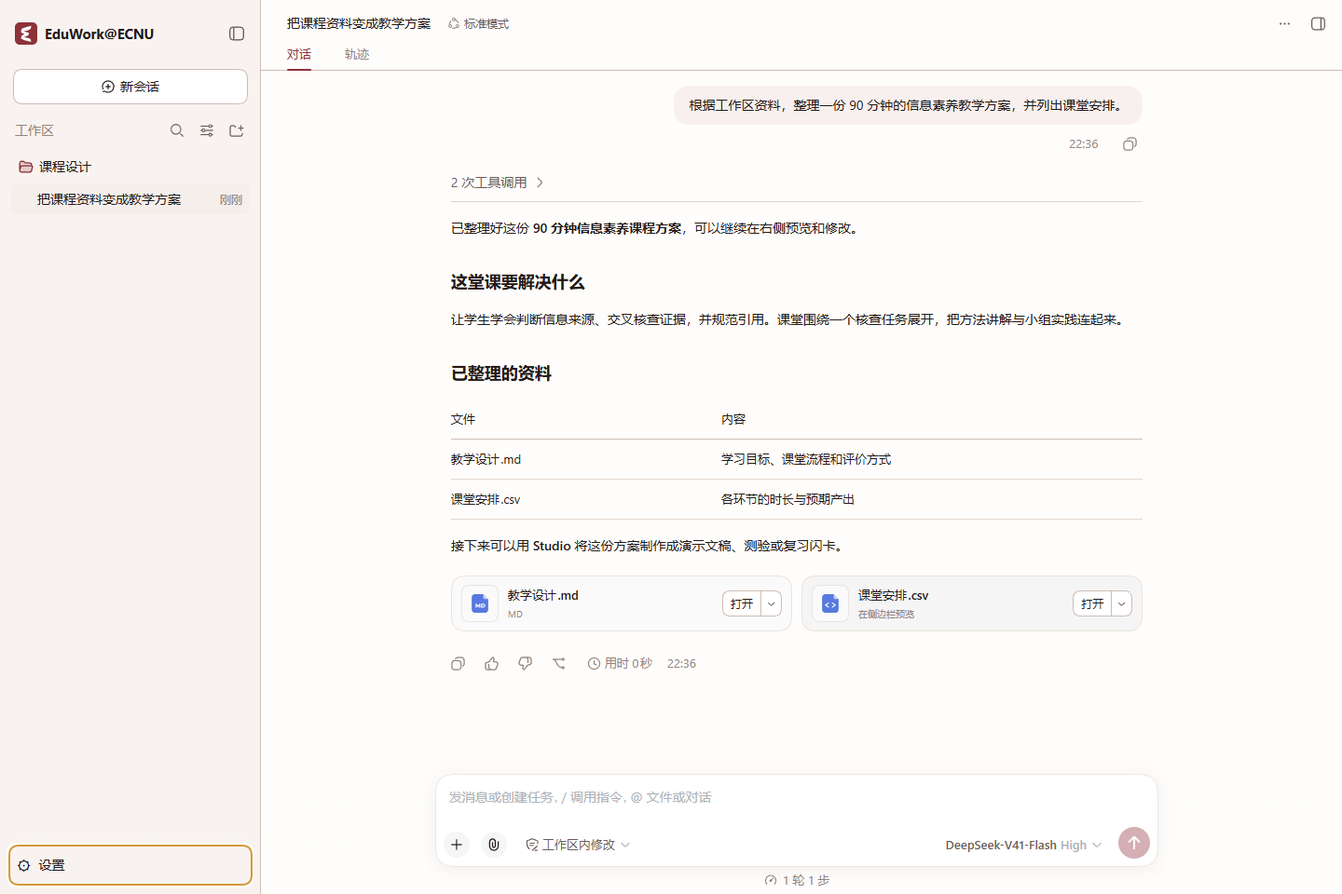
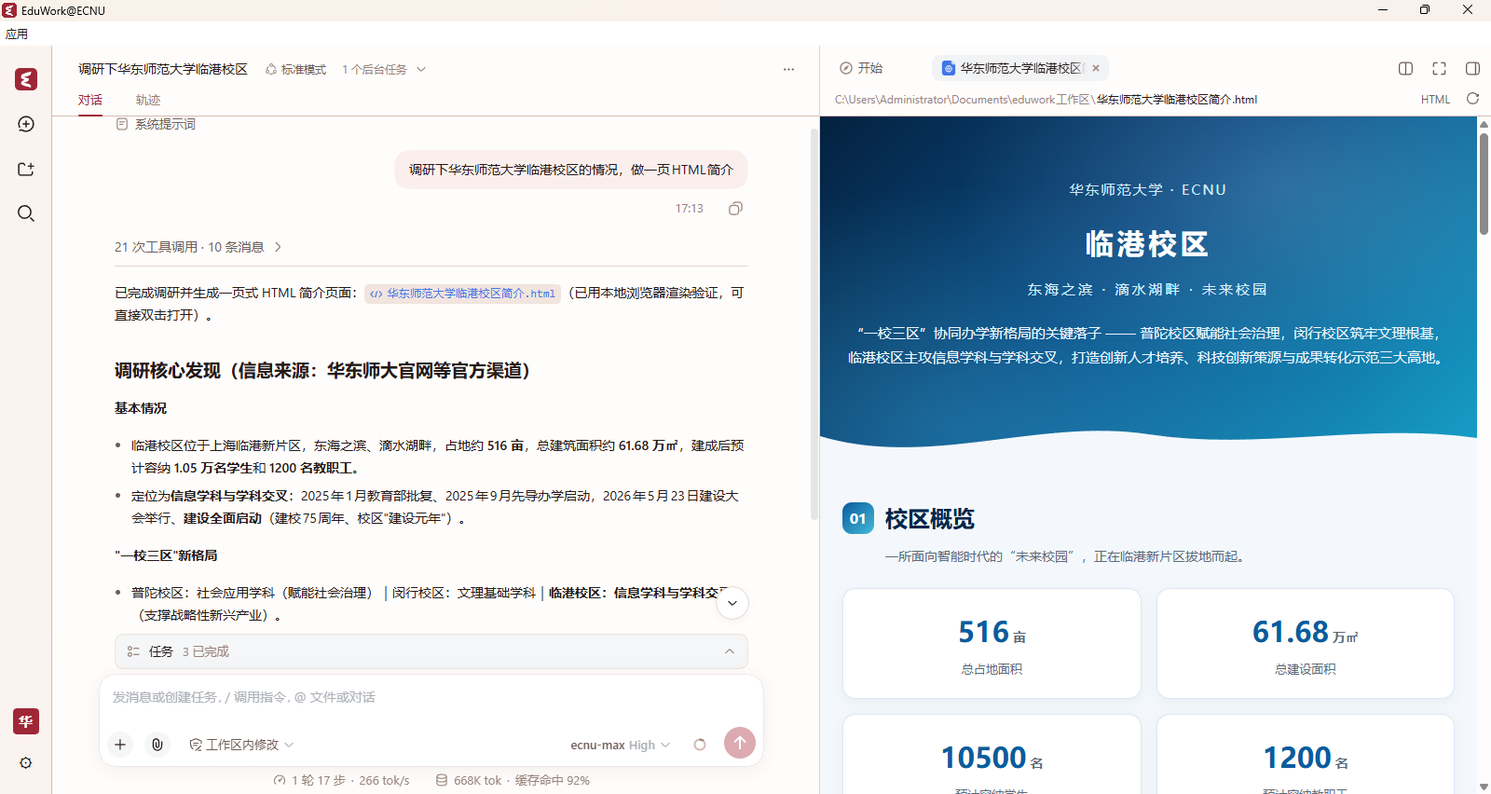
docs: 更新 ECNU README 与学校版界面截图 (#16)
* docs: refresh ECNU overview and shared feature screenshots

* docs: use matching ECNU screenshots throughout the README

* docs: align ECNU service guides with current token and configuration flows

diff --git a/README_EN.md b/README_EN.md
@@ -8,7 +8,7 @@
 
 <div align="center">
 
-[![DSH 0.1.5-rc.2](https://img.shields.io/badge/DSH-0.1.5--rc.2-5367E8?style=flat-square)](https://github.com/deepseek-ai/deepseek-harness/releases/tag/dsh-v0.1.5-rc.2) [![License: MIT](https://img.shields.io/badge/license-MIT-3DA66B?style=flat-square)](LICENSE) [![Desktop: Electron](https://img.shields.io/badge/desktop-Electron-47848F?style=flat-square&logo=electron&logoColor=white)](https://github.com/ecnu/EduWork/blob/main/dsh-electron/README_EN.md) [![Platform: Windows x64](https://img.shields.io/badge/platform-Windows%20x64-0078D4?style=flat-square)](docs/USER_GUIDE.md)
+[![DSH 0.1.5-rc.2](https://img.shields.io/badge/DSH-0.1.5--rc.2-5367E8?style=flat-square)](https://github.com/deepseek-ai/deepseek-harness/releases/tag/dsh-v0.1.5-rc.2) [![License: MIT](https://img.shields.io/badge/license-MIT-3DA66B?style=flat-square)](LICENSE) [![Desktop: Electron](https://img.shields.io/badge/desktop-Electron-47848F?style=flat-square&logo=electron&logoColor=white)](https://github.com/ecnu/EduWork/blob/main/dsh-electron/README_EN.md) [![Platform: Windows x64 / macOS arm64](https://img.shields.io/badge/platform-Windows%20x64%20%7C%20macOS%20arm64-0078D4?style=flat-square)](docs/USER_GUIDE.md)
 
 [简体中文](README.md) | **English**
 
@@ -20,9 +20,9 @@ EduWork@ECNU brings [EduWork](https://github.com/ecnu/EduWork) to East China Nor
 
 It includes the full EduWork workspace, Studio, and skill center. University services connect through configuration and plugins, and you can still use personal API keys and other models.
 
-![EduWork@ECNU workspace: turn local course materials into a teaching plan, shown in the red theme](docs/images/workspace.png)
+![EduWork@ECNU workspace: research campus information with a university model and preview a generated HTML page on the right](docs/images/workspace.png)
 
-<p align="center"><sub>The shared EduWork workspace, connected to university services. Blue and red themes are both available.</sub></p>
+<p align="center"><sub>From research to a finished page: complete the task with a university model and preview the result beside the conversation.</sub></p>
 
 > University users obtain the client through the school distribution channel; it downloads school configuration on first launch. This repository presents the institutional extension; its templates do not include complete school deployment settings.
 
@@ -34,7 +34,7 @@ It includes the full EduWork workspace, Studio, and skill center. University ser
 <td width="50%" valign="top"><h3>See your available resources</h3><p>Check university quota, resource pools, and reset times from your account menu.</p></td>
 </tr>
 <tr>
-<td width="50%" valign="top"><h3>Connect university models</h3><p>Sign in to configure models and use university image generation and speech services.</p></td>
+<td width="50%" valign="top"><h3>Connect university models</h3><p>Sign in to discover available models without copying API keys, and use university image and speech services according to your account permissions.</p></td>
 <td width="50%" valign="top"><h3>Finish the work</h3><p>Keep the full EduWork workspace, Studio, skills, memory, and mail assistant.</p></td>
 </tr>
 </table>
@@ -59,9 +59,22 @@ Quota queries use university-specific APIs, and values come from the server. Quo
 
 ### University models and media services
 
-After university sign-in and the required authorization, the client obtains model credentials and configures university models. University image generation and speech synthesis services can also produce images, narration, and explanatory content in conversations or Studio. Personal models remain available alongside them.
+After university sign-in and authorization, the client automatically discovers available models so you can start a conversation without creating or copying a separate model API key. Depending on account permissions, university image generation and speech synthesis services can also produce images, narration, and explanatory content in conversations or Studio. Personal models remain available alongside them.
 
 These integrations reuse the public edition's OIDC, model, and media adapters, with services and configuration supplied by the university.
+
+<details>
+<summary>See university service connection and model selection</summary>
+
+![Model settings show a connected ECNU AI service and its model catalog](docs/images/school-services.png)
+
+Check the university service's connection status and model catalog under Settings → Models. Personal model providers can also be added here.
+
+![A new EduWork@ECNU conversation with the university model ecnu-max selected](docs/images/school-model.png)
+
+Back in the conversation, select a university model at the bottom right of the composer to begin. The example uses `ecnu-max`; available models depend on university services and account permissions.
+
+</details>
 
 ### Other university extensions
 
@@ -72,7 +85,9 @@ These integrations reuse the public edition's OIDC, model, and media adapters, w
 
 ### Work with your materials
 
-Choose a local folder as your workspace. Ask EduWork to read and organize sources, analyze data, edit files, or run scripts. Request outputs in a conversation or open Studio:
+Choose a local folder as your workspace. Ask EduWork to read and organize sources, analyze data, edit files, or run scripts. Request outputs in a conversation or open Studio to choose an output type.
+
+For example, research Lingang Campus, create a one-page HTML introduction, and generate a quiz from the page in your workspace. Research materials, the page, and exercises stay together for further additions and revisions.
 
 - **Reports, spreadsheets, and presentations**: create DOCX, XLSX, and PPTX files.
 - **Mind maps, quizzes, and flashcards**: organize knowledge and prepare practice and revision materials.
@@ -80,11 +95,24 @@ Choose a local folder as your workspace. Ask EduWork to read and organize source
 
 Conversations and Studio share generation, previews, and downloads. The skill center, local memory, mail assistant, browser, local transcription, system speech synthesis, and blue/red themes are also included.
 
-![EduWork@ECNU Studio: create teaching materials for a lesson plan using the same creation tools as the public edition](docs/images/studio.png)
+![EduWork@ECNU Studio: generate a quiz from workspace materials and view output types and an in-progress task in the sidebar](docs/images/studio.png)
+
+<p align="center"><sub>Start generation from Studio and follow its progress in the sidebar. Completed items appear under Recent results.</sub></p>
+
+<details>
+<summary>See how a generated quiz works</summary>
+
+![EduWork@ECNU quiz: check answers, explanations, and source evidence, then ask AI a follow-up question](docs/images/quiz.png)
+
+Answer a generated quiz directly, review explanations and source evidence, and use Ask AI to continue learning.
+
+</details>
 
 ## Configuration and data
 
-The university maintains connection settings, model catalogs and capabilities, media services, branding, and update sources. The client includes update feeds and a verification key, and downloads school configuration on first launch. Model catalogs, feature switches, media configuration and official Skills can also update independently, taking effect on the next launch; users do not need to edit configuration. Personal models, credentials, and history remain separate and are preserved. Configuration is separate from the public core. This repository supplies templates; the university maintains actual Client IDs and deployment settings. See the [institutional configuration examples](edition/desktop-examples/README_EN.md).
+The university maintains default connection settings, model and media configuration, branding, and update sources. On first launch, the client downloads and verifies university configuration. Model configuration, feature switches, media settings, and official Skills can also update independently and take effect after restart. Everyday use requires no manual entry of university settings.
+
+For adjustments, open the single active `eduwork.jsonc` from Settings; the file includes configuration comments. Configuration updates preserve manual edits and retain only one previous configuration before an automatic rewrite for rollback. Personal models, credentials, and history remain separate. Windows keeps configuration and data in the portable installation directory; macOS uses the user directory. This repository provides [institutional examples](edition/desktop-examples/README_EN.md); the university distributes actual deployment settings.
 
 Conversations, workspace references, and memory are managed locally. When using university or other remote models, search, or media services, content needed for a task is sent to the corresponding service. Sign-in credentials are managed by local credential storage; do not put passwords or tokens in configuration files.
 
@@ -118,7 +146,7 @@ Other schools and businesses can follow this structure to develop their plugins 
 | [Build guide](docs/BUILD.md) | Referencing the public core, assembling institutional editions, and contributing. |
 | [EduWork user guide](https://github.com/ecnu/EduWork/blob/main/docs/USER_GUIDE.md) | Workspaces, models, search, speech, and file operations. |
 | [Versioning and upgrades](https://github.com/ecnu/EduWork/blob/main/docs/RELEASE.md) · [Update sources](https://github.com/ecnu/EduWork/blob/main/docs/UPDATES.md) | Versions, update channels, and migration requirements. |
-| [macOS notes](https://github.com/ecnu/EduWork/blob/main/docs/MACOS.md) | Mac support and ways to contribute. |
+| [macOS notes](https://github.com/ecnu/EduWork/blob/main/docs/MACOS.md) · [Mac updates](https://github.com/ecnu/EduWork/blob/main/docs/MACOS_UPDATES_EN.md) | Mac support, user data locations, updates, and system authorization. |
 
 Detailed documentation defaults to Chinese.
 

diff --git a/edition/plugins/ecnu-account-resources/README_EN.md b/edition/plugins/ecnu-account-resources/README_EN.md
@@ -6,10 +6,10 @@ Loaded only by the ECNU edition. Public `@eduwork/dsh-oidc` does not query quota
 
 Install on the Host with `profileIDs: ['ecnu']` (the default), substituting the actual ECNU Profile ID when needed. An explicit empty list disables all profiles. Third-party organizations and personal models are not queried. Its client module uses the official public `oidc.account.menu.details` slot; unmatched profiles retain public account actions without quota queries. `backend: desktop/web` uses the same code through the OIDC transport interface.
 
-RPC methods `ecnuAccountResources.configuration()` and `quota(profileID)` return allowlisted projections only. The Host calls `oidcAccounts.modelResourceFetch(profileID, '/quota', {signal})`, constrained to the configured provider base, GET, managed model Key, no redirects, timeout and logout generation. Identity tokens never go to the model service, and no Key enters client RPC. Account/credential events, disposal and component lifecycles prevent stale account data from appearing. There is no cross-account cache.
+RPC methods `ecnuAccountResources.configuration()` and `quota(profileID)` return allowlisted projections only. The Host calls `oidcAccounts.modelResourceFetch(profileID, '/quota', {signal})`. The shared account layer validates the model-service base and sends a GET using the current account's Access Token, handling refresh, redirect rejection, timeout, and account changes. The plugin never reads or copies tokens, and tokens never enter client RPC. Account/credential events, disposal and component lifecycles prevent stale account data from appearing. There is no cross-account cache.
 
-The menu preserves actual window balances, progress, reset time, and resource-pack remaining/used/total/expiry/status values. No percentage is invented without a valid total; packs are not blindly added to windows. Detail links allow only credential-free HTTPS URLs. Refresh failure affects quota display only, without deleting login/Keys or blocking models.
+The menu preserves actual window balances, progress, reset time, and resource-pack remaining/used/total/expiry/status values. No percentage is invented without a valid total; packs are not blindly added to windows. Detail links allow only credential-free HTTPS URLs. Refresh failure affects quota display only, without deleting sign-in state or blocking models.
 
-See `quota.openapi.yaml` for the existing wire contract. These are ECNU protocol fields, not OIDC standards or mandatory public resource capabilities. Generic OIDC still owns identity, Key and model catalogs. Upgrades do not migrate or overwrite saved identities, personal Keys or user model choices.
+See `quota.openapi.yaml` for interface fields. These are ECNU protocol fields, not OIDC standards or mandatory public resource capabilities. The shared OIDC module owns identity, Token sessions, and model catalogs. This extension does not migrate or overwrite saved identities, personal Keys, or user model choices.
 
 Build against the locked, consistent DSH `0.1.5-rc.1` dependency tree and run `npm run test`. Point `DSH_OIDC_PACKAGE_ROOT` to the compiled public OIDC package. `test/check-browser.mjs` covers public/extension client integration, not a production IdP. Package with `npm pack --ignore-scripts`.

diff --git a/edition/plugins/ecnu-account-resources/README.md b/edition/plugins/ecnu-account-resources/README.md
@@ -6,10 +6,10 @@
 
 Host 安装本包并配置 `profileIDs: ['ecnu']`（默认值）；发行方应传入其实际 ECNU Profile ID。显式空数组禁用所有机构，第三方组织和个人模型不会被查询。DSH 客户端模块需随此包加载，它占用公版官方插槽 `oidc.account.menu.details`；未匹配机构返回公版默认账户操作，不查询配额。`backend: desktop/web` 通过 OIDC 公共运输接口使用相同代码。
 
-RPC 是本包的 `ecnuAccountResources.configuration()` 和 `quota(profileID)`，只回传白名单投影。Host 使用 `oidcAccounts.modelResourceFetch(profileID, '/quota', {signal})`，该方法内部限定已配置 provider 基址、GET、托管模型 Key、禁重定向、超时和注销代次；身份 Token 不发到模型服务，任何 Key 都不进客户端 RPC。账号事件/凭据事件、卸载与客户端组件生命周期阻止旧账号的迟到数据回显。没有跨账号缓存。
+RPC 是本包的 `ecnuAccountResources.configuration()` 和 `quota(profileID)`，只回传白名单投影。Host 使用 `oidcAccounts.modelResourceFetch(profileID, '/quota', {signal})`，由公共账号层校验模型服务基址并用当前账号的 Access Token 发起 GET 请求，统一处理刷新、禁重定向、超时和账号切换。插件不读取或复制令牌，令牌也不进入客户端 RPC。账号事件/凭据事件、卸载与客户端组件生命周期阻止旧账号的迟到数据回显。没有跨账号缓存。
 
-保留窗口实际剩余额度、进度、重置时间和资源包的剩余/已用/总量/到期/状态。没有有效总量时不构造百分比；资源包不与窗口盲目相加。详情仅允许无凭据的 HTTPS 地址。刷新失败仅影响额度展示，不删除身份/Key 或阻断模型。
+保留窗口实际剩余额度、进度、重置时间和资源包的剩余/已用/总量/到期/状态。没有有效总量时不构造百分比；资源包不与窗口盲目相加。详情仅允许无凭据的 HTTPS 地址。刷新失败仅影响额度展示，不删除登录状态或阻断模型。
 
-既有线协议见 `quota.openapi.yaml`。这些字段是 ECNU 机构协议，既不是 OIDC 标准，也不是公共 EduWork 资源必选能力。机构身份、Key、模型目录仍由公共 OIDC 协议管理，升级不迁移或覆盖已存身份、个人 Key 和用户模型选择。
+接口字段见 `quota.openapi.yaml`。这些字段是 ECNU 机构协议，既不是 OIDC 标准，也不是公共 EduWork 资源必选能力。机构身份、Token 会话与模型目录仍由公共 OIDC 模块管理，本扩展不迁移或覆盖已存身份、个人 Key 和用户模型选择。
 
 本地检查：使用锁定的 DSH 0.1.5-rc.1 一致依赖树构建，运行 `npm run test`；设置 `DSH_OIDC_PACKAGE_ROOT` 指向公版 OIDC 编译包根目录。公共与扩展编译浏览器联验见 `test/check-browser.mjs`，不宣称为生产 IdP 测试。打包用 `npm pack --ignore-scripts`。

diff --git a/edition/plugins/tool-ecnu-campus-search/README_EN.md b/edition/plugins/tool-ecnu-campus-search/README_EN.md
@@ -2,10 +2,10 @@
 
 [简体中文](README.md)
 
-A native DSH search tool for East China Normal University. It calls the institution's platform through `POST /search`, reusing the configured API Base URL and `EDUWORK_API_KEY` reference without storing separate accounts or keys.
+A native DSH search tool for East China Normal University. It calls the institution's platform through `POST /search`. Current university distributions bind the signed-in ECNU account and delegate Access Token requests to the shared OIDC account layer, without storing separate accounts or tokens.
 
 The tool is named `ecnu_campus_search`. Use it for ECNU-related sites, services, organizations, policies and news. DSH's official `web_search` remains available for general background and external facts.
-`oidcProfileId` matches the organization entry `id`, not `provider.id`. The plugin verifies the institution, credential reference and service endpoint before using a key. Current distributions use this binding. Omitting the field selects the legacy direct-credential mode, intended only for controlled assemblies managing a personal key; it does not provide the institution binding used by school sign-in.
+`oidcProfileId` matches the organization entry `id`, not `provider.id`. The plugin uses `modelAuthorization` to verify the account and discovered model-service base, then delegates requests and token refresh to `authorizedFetch`. Current distributions use this binding; missing sign-in or an endpoint mismatch never falls back to a personal key. Only legacy mode without this field reads the API Key referenced by `credentialRef`, for controlled assemblies managing their own keys.
 
 ```yaml
 - id: tool-ecnu-campus-search
@@ -18,6 +18,6 @@ The tool is named `ecnu_campus_search`. Use it for ECNU-related sites, services,
     requestTimeoutMs: 65000
 ```
 
-Returned titles, excerpts and links are untrusted search content, not Agent instructions. Bearer keys never enter tool output, logs or errors.
+Returned titles, excerpts and links are untrusted search content, not Agent instructions. Access Tokens and API Keys never enter tool output, logs or errors.
 
-The plugin retains `CHATECNU_API_KEY` as its internal default for legacy compositions. New distribution configuration should explicitly set `EDUWORK_API_KEY`, as in the example.
+API Key compatibility mode retains `CHATECNU_API_KEY` as its internal default; the example explicitly sets `EDUWORK_API_KEY`. This credential is not read when `oidcProfileId` is configured. Current university sign-in does not require creating a model key.

diff --git a/edition/plugins/chatecnu-active-heartbeat/README_EN.md b/edition/plugins/chatecnu-active-heartbeat/README_EN.md
@@ -14,11 +14,12 @@ An institution-specific service reporting only a random installation identifier,
 
 ## Electron and local Web configuration
 
-Electron and local Web share the DSH Host OAuth backend. The retained `backend: "web"` name does not mean the client platform is Web. The university distribution explicitly enables it in `edition/distribution.json`, binding the `ecnu` account to the university service. Other deployments supply trusted assembly configuration, not browser-editable settings:
+Electron and local Web share the DSH Host OAuth backend. The retained `backend: "web"` name does not mean the client platform is Web. University defaults enable it for the `ecnu` account. Current desktop options live in `plugins["chatecnu-active-heartbeat"]` in the active `eduwork.jsonc`, accessible through Open configuration file in Settings. The example below is that plugin object. When switching environments, also change `baseURL`; the heartbeat address does not follow the login discovery address automatically:
 ```json
 {
   "backend": "web",
   "enabled": true,
+  "allowInsecureDevelopment": false,
   "profileID": "campus",
   "baseURL": "https://campus.example.edu",
   "endpoint": "/user/active",
@@ -38,7 +39,7 @@ The installation ID defaults to `$DSH_HOME/state/chatecnu-active/installation-id
 
 The existing `POST /user/active` wire contract uses `client.installation_id`. OAuth `client_id` belongs in the OIDC profile; there are no new wire `device_id` or `client_id` fields. Other metadata is name/version/platform/channel/device/os/arch/locale/timezone. Overlong version strings are omitted. Server `next_heartbeat_in` defaults to 600 seconds, bounded to 60–3600 seconds.
 
-Only HTTPS endpoints are accepted, with HTTP loopback allowed for local testing. The `client` object contains no username, OAuth `client_id`, token or file path. Optional `os_version` is omitted; the server obtains the IP address. HTTP 200 with `status: "Success"` is successful even when `recorded` or `daily_recorded` is false.
+Only HTTPS endpoints are accepted by default. For HTTP testing, explicitly set `allowInsecureDevelopment: true` in both this plugin and the associated organization; same-origin and account authorization checks still apply. The `client` object contains no username, OAuth `client_id`, token or file path. Optional `os_version` is omitted; the server obtains the IP address. HTTP 200 with `status: "Success"` is successful even when `recorded` or `daily_recorded` is false.
 
 ## Legacy native adapter
 

diff --git a/edition/plugins/tool-ecnu-campus-search/README.md b/edition/plugins/tool-ecnu-campus-search/README.md
@@ -2,11 +2,11 @@
 
 [English](README_EN.md)
 
-DSH 原生的华东师范大学校内综合搜索工具。插件通过 `POST /search` 调用学校开放平台，复用 ChatECNU Work 已配置的 API Base URL 与 `EDUWORK_API_KEY`，不单独保存账号或密钥。
+DSH 原生的华东师范大学校内综合搜索工具。插件通过 `POST /search` 调用学校开放平台。当前学校发行关联已登录的 ECNU 账号，由公共 OIDC 账号层使用 Access Token 发起请求，插件不单独保存账号或令牌。
 
 工具名为 `ecnu_campus_search`。它只应处理与华东师范大学高度相关的站点、服务、机构、政策和新闻检索；公共背景与外部事实仍由 DSH 官方 `web_search` 补充。
 
-`oidcProfileId` 对应企业条目的 `id`。它让插件核对机构身份、凭据引用和服务地址，避免把其他机构的 Key 用于校内请求；它不是 `provider.id`。当前发行使用这个绑定模式。省略该字段的兼容模式直接读取通用凭据，仅适用于自行管理个人 Key 的受控组合，不等价于学校登录绑定。
+`oidcProfileId` 对应企业条目的 `id`，不是 `provider.id`。插件通过 `modelAuthorization` 核对账号与发现的模型服务基址，再委托 `authorizedFetch` 发送请求并处理令牌刷新。当前发行使用这个绑定模式；未登录或地址不匹配时不会退回个人 Key。省略该字段的兼容模式才直接读取 `credentialRef` 指向的 API Key，仅适用于自行管理 Key 的受控组合。
 
 ```yaml
 - id: tool-ecnu-campus-search
@@ -19,6 +19,6 @@ DSH 原生的华东师范大学校内综合搜索工具。插件通过 `POST /se
     requestTimeoutMs: 65000
 ```
 
-返回的标题、摘要和链接属于不可信检索内容，不能被当作 Agent 指令执行。Bearer 密钥不会写入工具输出、日志或错误信息。
+返回的标题、摘要和链接属于不可信检索内容，不能被当作 Agent 指令执行。Access Token 或 API Key 不会写入工具输出、日志或错误信息。
 
-兼容旧组合时，插件内部仍保留 `CHATECNU_API_KEY` 默认值；新发行装配应像示例一样显式指定 `EDUWORK_API_KEY`。
+API Key 兼容模式内部保留 `CHATECNU_API_KEY` 默认值，示例显式指定 `EDUWORK_API_KEY`。设置了 `oidcProfileId` 时不读取这项凭据；当前学校登录无需创建模型 Key。

diff --git a/docs/images/README_EN.md b/docs/images/README_EN.md
@@ -4,4 +4,12 @@
 
 `readme-hero.svg` and `readme-hero-en.svg` are the Chinese and English homepage brand illustrations. They use the shared EduWork mark and are not UI screenshots.
 
-`workspace.png` shows the workspace with the red theme; `studio.png` shows a lesson planning conversation and the Studio sidebar with the blue theme. Screenshots use demonstration material to explain the interface, not to represent model output quality. The Chinese and English homepages share the images. Keep alternative text in sync and exclude personal or institution-private information.
+| File | Content and source |
+| --- | --- |
+| `workspace.png` | ECNU workspace: research with a university model and a generated HTML page preview |
+| `studio.png` | ECNU Studio: output types and a quiz being generated |
+| `quiz.png` | ECNU quiz answers, explanations, and source evidence |
+| `school-services.png` | University service connection status and model catalog in Settings |
+| `school-model.png` | University model selection in a new conversation, with a red box highlighting `ecnu-max` |
+
+All screenshots show the actual ECNU edition in the red theme with demonstration material. Existing privacy masks and highlights are preserved; generated content is not a factual reference. Chinese and English homepages share the images; keep alternative text in sync. Model and service availability depends on configuration and account permissions.

diff --git a/docs/images/README.md b/docs/images/README.md
@@ -4,4 +4,12 @@
 
 `readme-hero.svg` 和 `readme-hero-en.svg` 是中英文首页品牌插画，使用与公版一致的 EduWork 标识，并非界面截图。
 
-`workspace.png` 展示红色主题下的工作区，`studio.png` 展示蓝色主题下的课程设计对话与 Studio 侧边栏。截图使用演示资料，仅用于介绍界面，不代表模型生成质量。中英文首页共用图片；更新时同步替代文本，避免包含个人或机构私有数据。
+| 文件 | 展示内容与来源 |
+| --- | --- |
+| `workspace.png` | ECNU 工作区：学校模型调研对话与生成的 HTML 网页预览。 |
+| `studio.png` | ECNU Studio：成果类型入口与正在生成的测验。 |
+| `quiz.png` | ECNU 测验答题、解析与来源依据。 |
+| `school-services.png` | 模型设置中的学校服务连接状态与模型目录。 |
+| `school-model.png` | 新会话中选择学校模型，红框标出当前使用的 `ecnu-max`。 |
+
+以上均为 ECNU 版实际界面截图，使用红色主题和演示资料。保留截图中已有的隐私遮挡与重点标注；图中生成内容不作为事实参考。中英文首页共用图片，更新时同步替代文本。学校模型与服务的实际可用范围以配置和账号权限为准。
